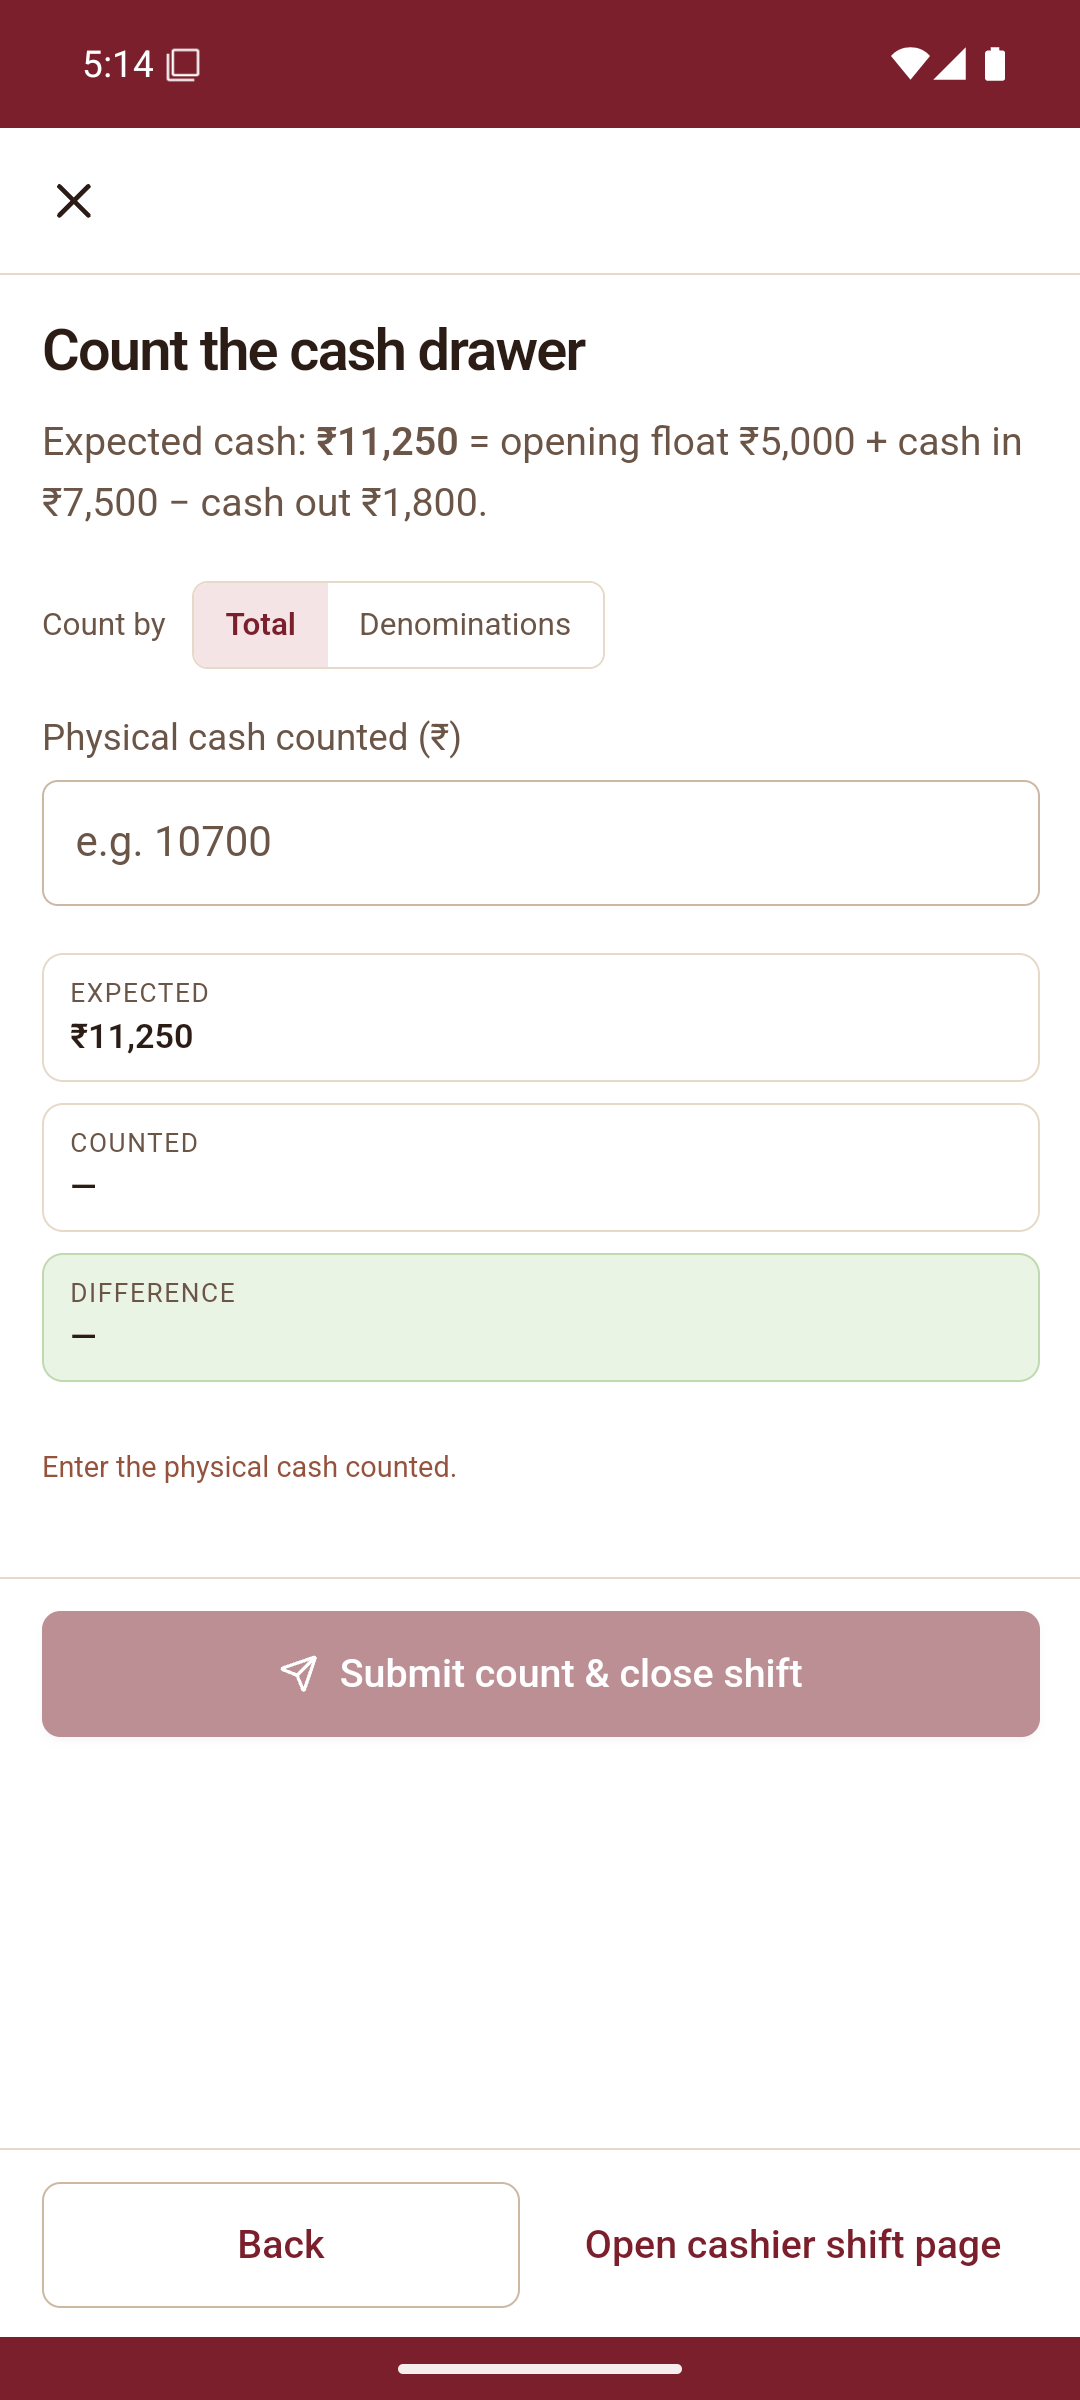
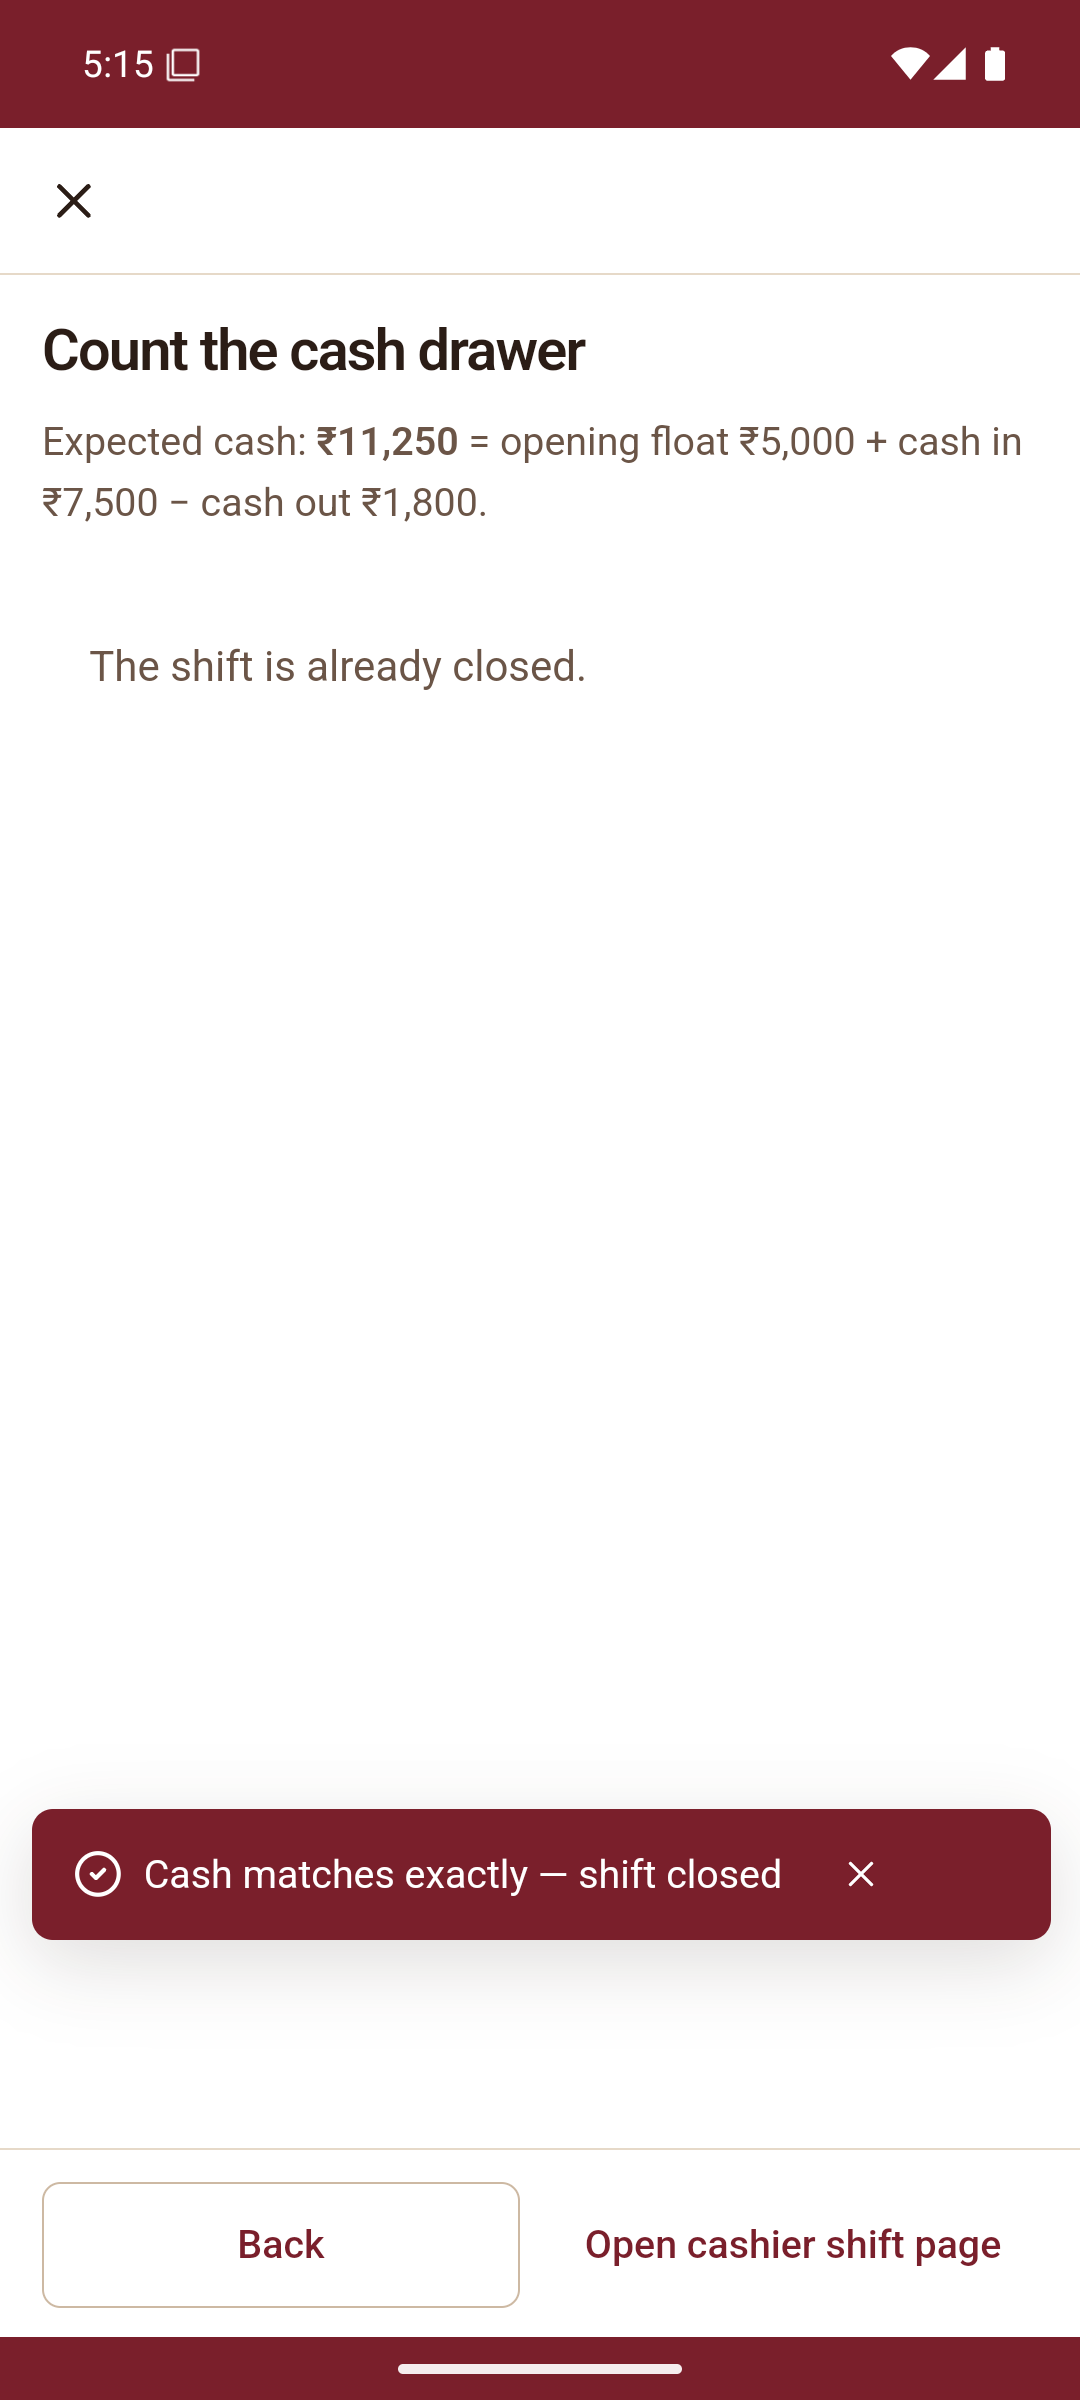
Checkpoint 17:21: acceptance evidence (9 files)

diff --git a/05 Delivery Evidence/Acceptance/D5_AC.md b/05 Delivery Evidence/Acceptance/D5_AC.md
@@ -1,6 +1,6 @@
 # D5 · AC-M05…M08 phone flows — EMULATED
 
-**Progress:** 25 Oct, API 35 (work PC), APK v8. Done: Part 1/AC-02 (earlier), AC-M08 block check, AC-M05 (incl. restricted stay + manager override). Next: deposit + cashier flow (AC-M06), M08 close, M07, BL-01. Results are in the "Parts 2-3 on API 35" section at the end.
+**Progress:** 25 Oct API 35. Done: AC-M05, AC-M08a, AC-M06 up to drawer ₹12,750, BL-01. Next: checkout + print, M07 housekeeping, expense ₹300 → ₹12,450, shift close, close 26 Oct, report totals.
 
 - Date: 24 Oct 2026 · Agent D-C
 - Device: **EMULATED** — AVD `codex_apk_review` (`sdk_phone_x86_64`, Android 11 / API 30, AOSP image without Play), serial `emulator-5556`, 1080×1920 @ 420 dpi (CSS viewport 412×660, DPR 2.625), DevTools port 9232
@@ -73,3 +73,14 @@ Device: `codex_api35_google` (Android 15 / API 35, WebView 124), `emulator-5554`
 | AC-M05 Restricted 7→8 Nov stay shows warning (Reception) | Pass | `v8-m05-restricted-warning.png`, `v8-m05-restricted-reception-blocked.png` | "Minimum stay 2 nights … (Diwali weekend). Ask a manager to override…"; Next does not advance |
 | AC-M05 Manager override | Pass | DOM | Meera: "Override restriction" tick + reason; review shows "Overridden: …"; booking HCC-1108 confirmed |
 | T-04 phone booking list "1 night" | Pass* | `d5-roles\v8-booking-list-1-night.png` | Card reads "Room 101 · 7 Nov – 8 Nov · 1 night". *Phone cards show no guest count, so "1 night · 1 guest" exists only in the desktop table; not a defect |
+| AC-M06 drawer ₹10,750 on S0 (24 Oct) incl. restaurant ₹550 line; ₹1,000 UPI advance leaves it unchanged | Pass | `d5-ac\v8-m06-drawer-10750.png` | ₹5,000 + ₹7,550 − ₹1,800 |
+| AC-M06 ₹500 cash deposit on Room 105 (Cashier, Folios) | Pass | DOM | Deposit held ₹500, balance still −₹1,000, drawer ₹11,250 (₹5,000 + ₹8,050 − ₹1,800) |
+| Step 4a: settle POS-F03 (T2, ₹1,914) and POS-F04 (room 201, ₹330) by UPI as Manager; approve EXP-102 | Pass | DOM | Preflight turned "All checks clear" (after the block shown in AC-M08a). UPI settle needs a reference typed (empty reference: nothing happens, no message seen) |
+| Step 4a: post room nights (9), count ₹11,250, close 24 Oct | Pass | DOM | "Opens 25 Oct at 08:00 with opening float ₹11,250 (counted cash)" |
+| Step 4b: Reception adds Laundry ₹500 and requests ₹500 discount "Service delay goodwill" | Pass | DOM | Discount pending, balance ₹1,750 |
+| Step 5: Role gating — Reception/Housekeeper cannot approve / record payment | Pass* | tab/search sets | *Not attempted as an action: Reception has no Approvals tab or page and Housekeeper has no folio pages (see D5_Roles.md) |
+| Step 5 / BL-01: Manager approves discount; status shows Approved (not Expired) | Pass | `d5-ac\v8-bl01-discount-approved.png` | Approvals → Approved filter: "Status Approved · Decided 25 Oct 08:02 · Meera" |
+| Step 5b: close 25 Oct (post nights, count ₹11,250, close, open 26 Oct) | Pass | DOM | Room 105 balance ₹3,400, charges + tax ₹4,400 (net ₹4,000 + tax ₹400) |
+| AC-M06 split ₹3,400 = ₹2,000 cash + ₹1,400 UPI DEMO-UPI-0002 (Cashier) | Pass | `d5-ac\v8-m06-split-review.png` | Review shows both tenders; balance ₹0 |
+| AC-M06 return ₹500 deposit in cash | Pass | DOM | Deposit held ₹0 |
+| AC-M06 drawer ₹12,750 after settlement | Pass | `d5-ac\v8-m06-drawer-12750.png` | ₹11,250 + ₹2,000 − ₹500 |
